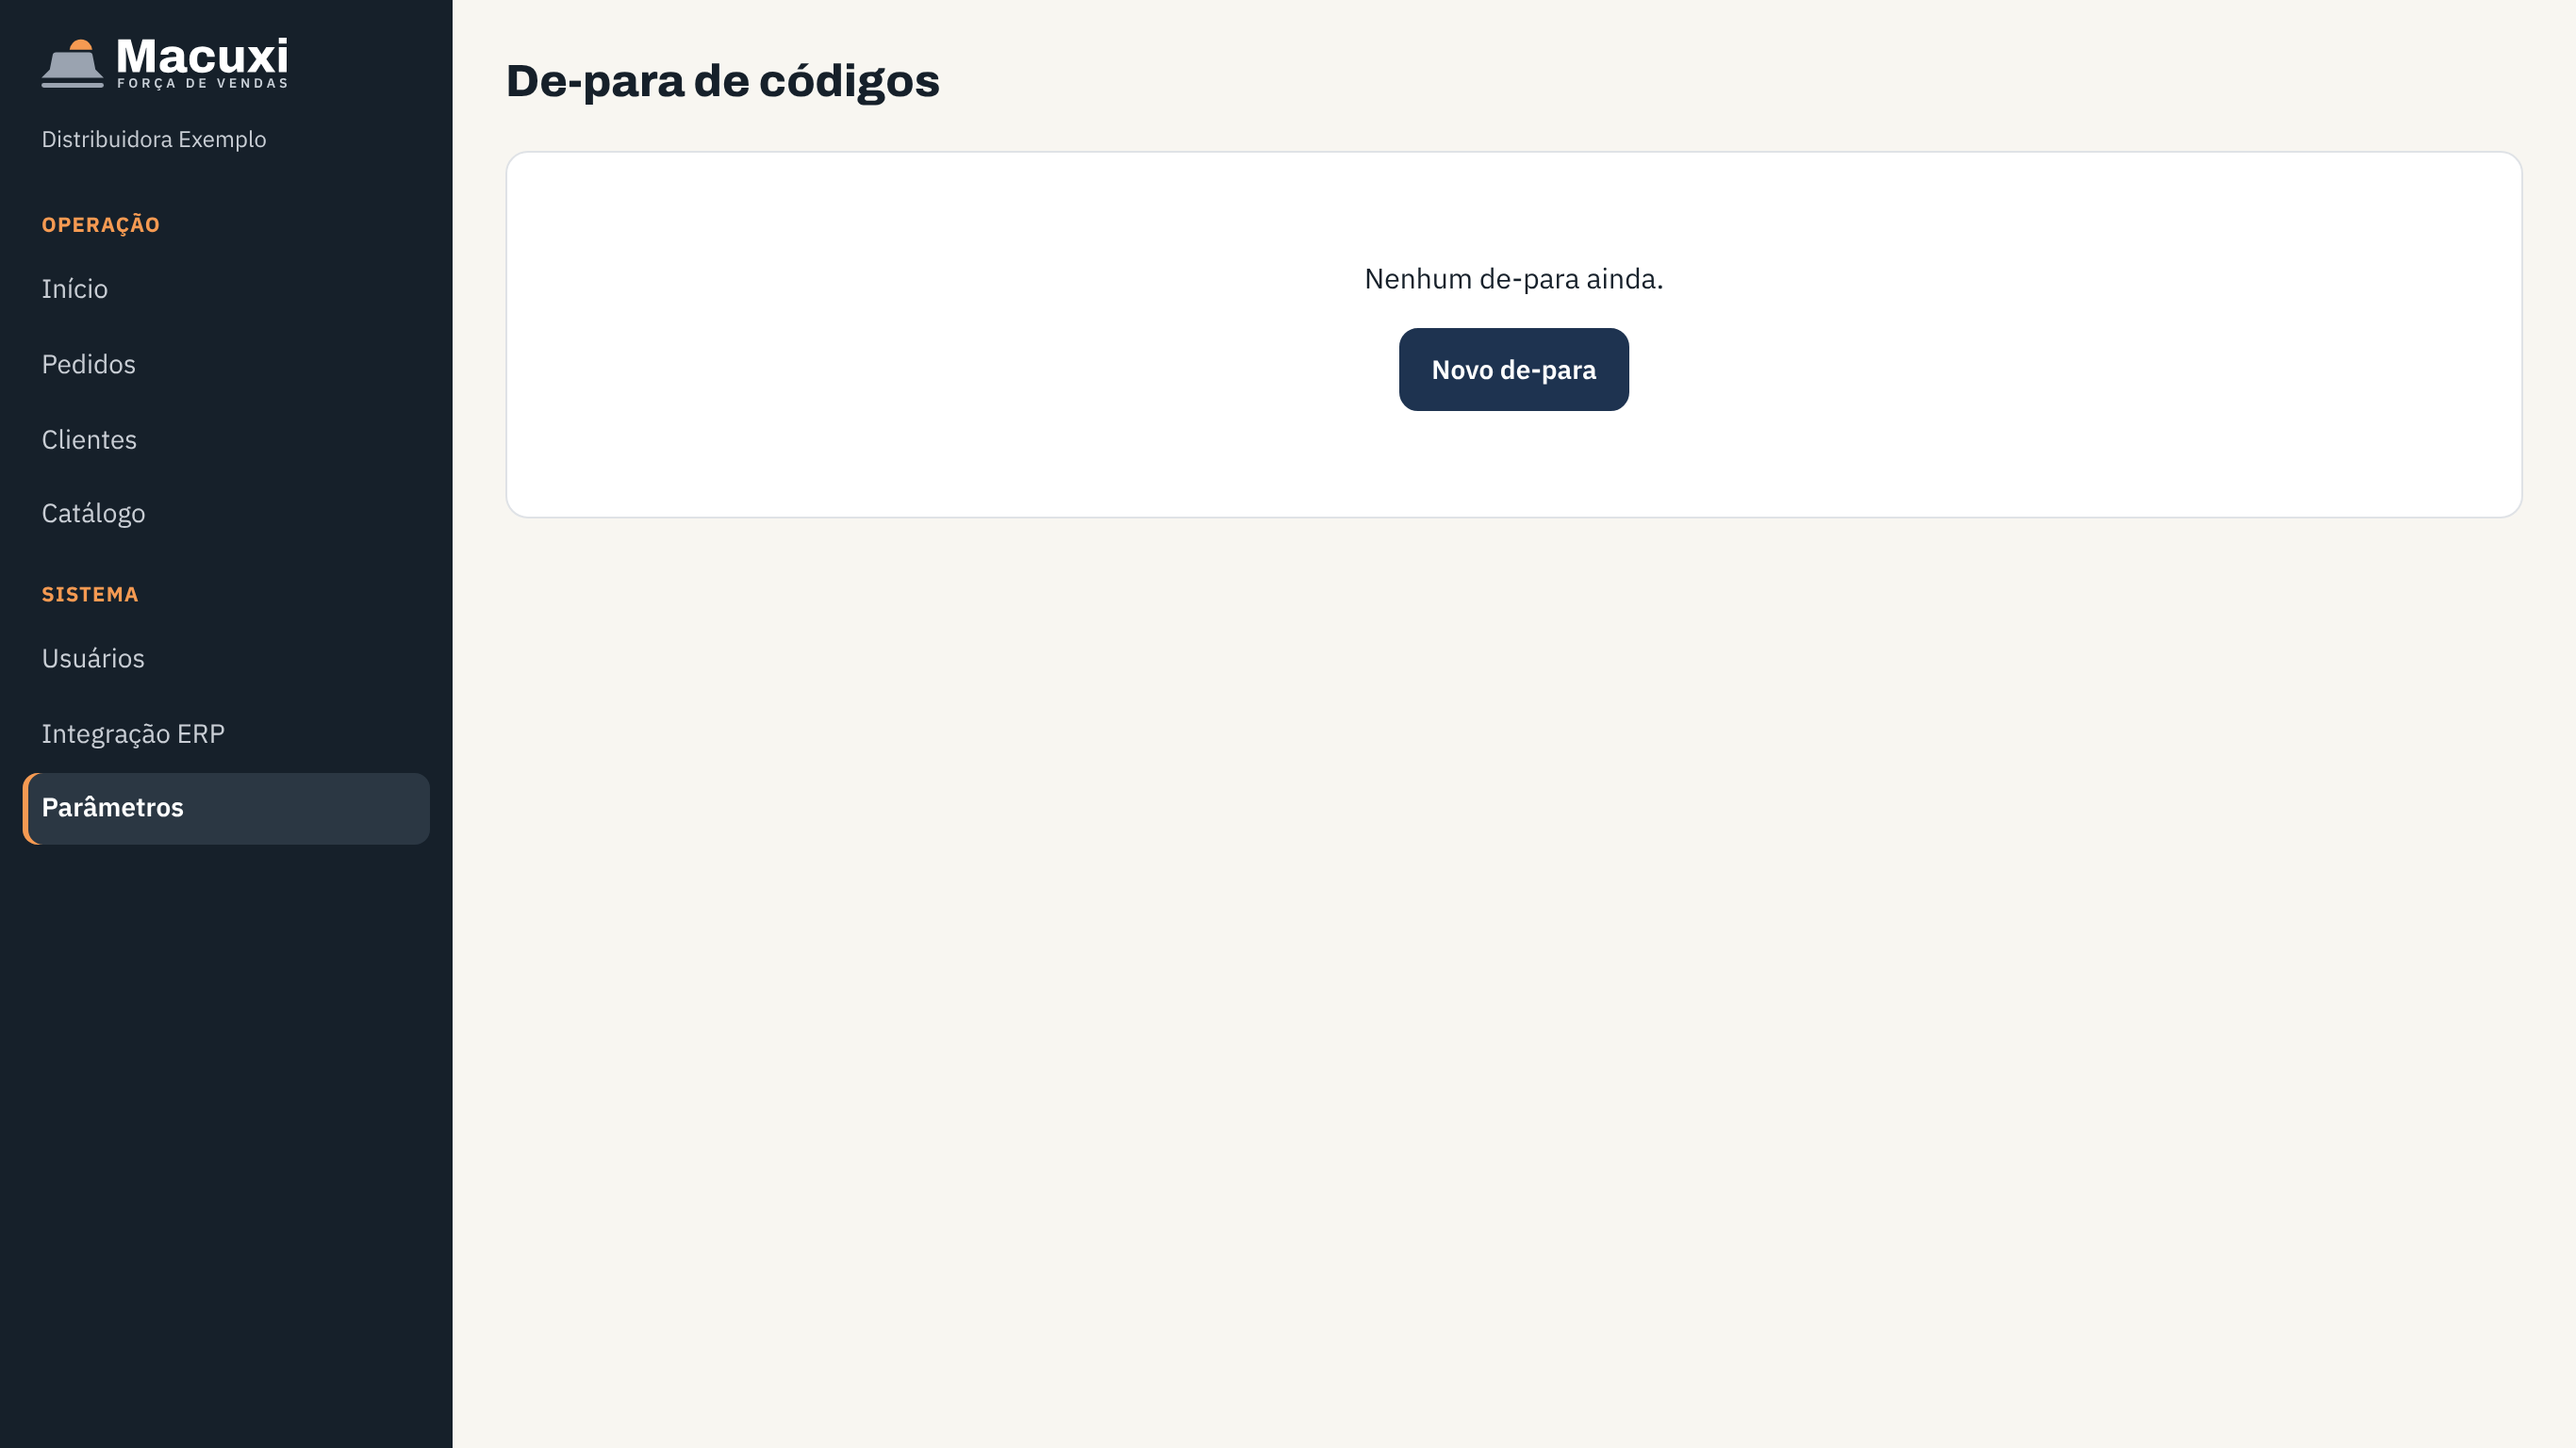
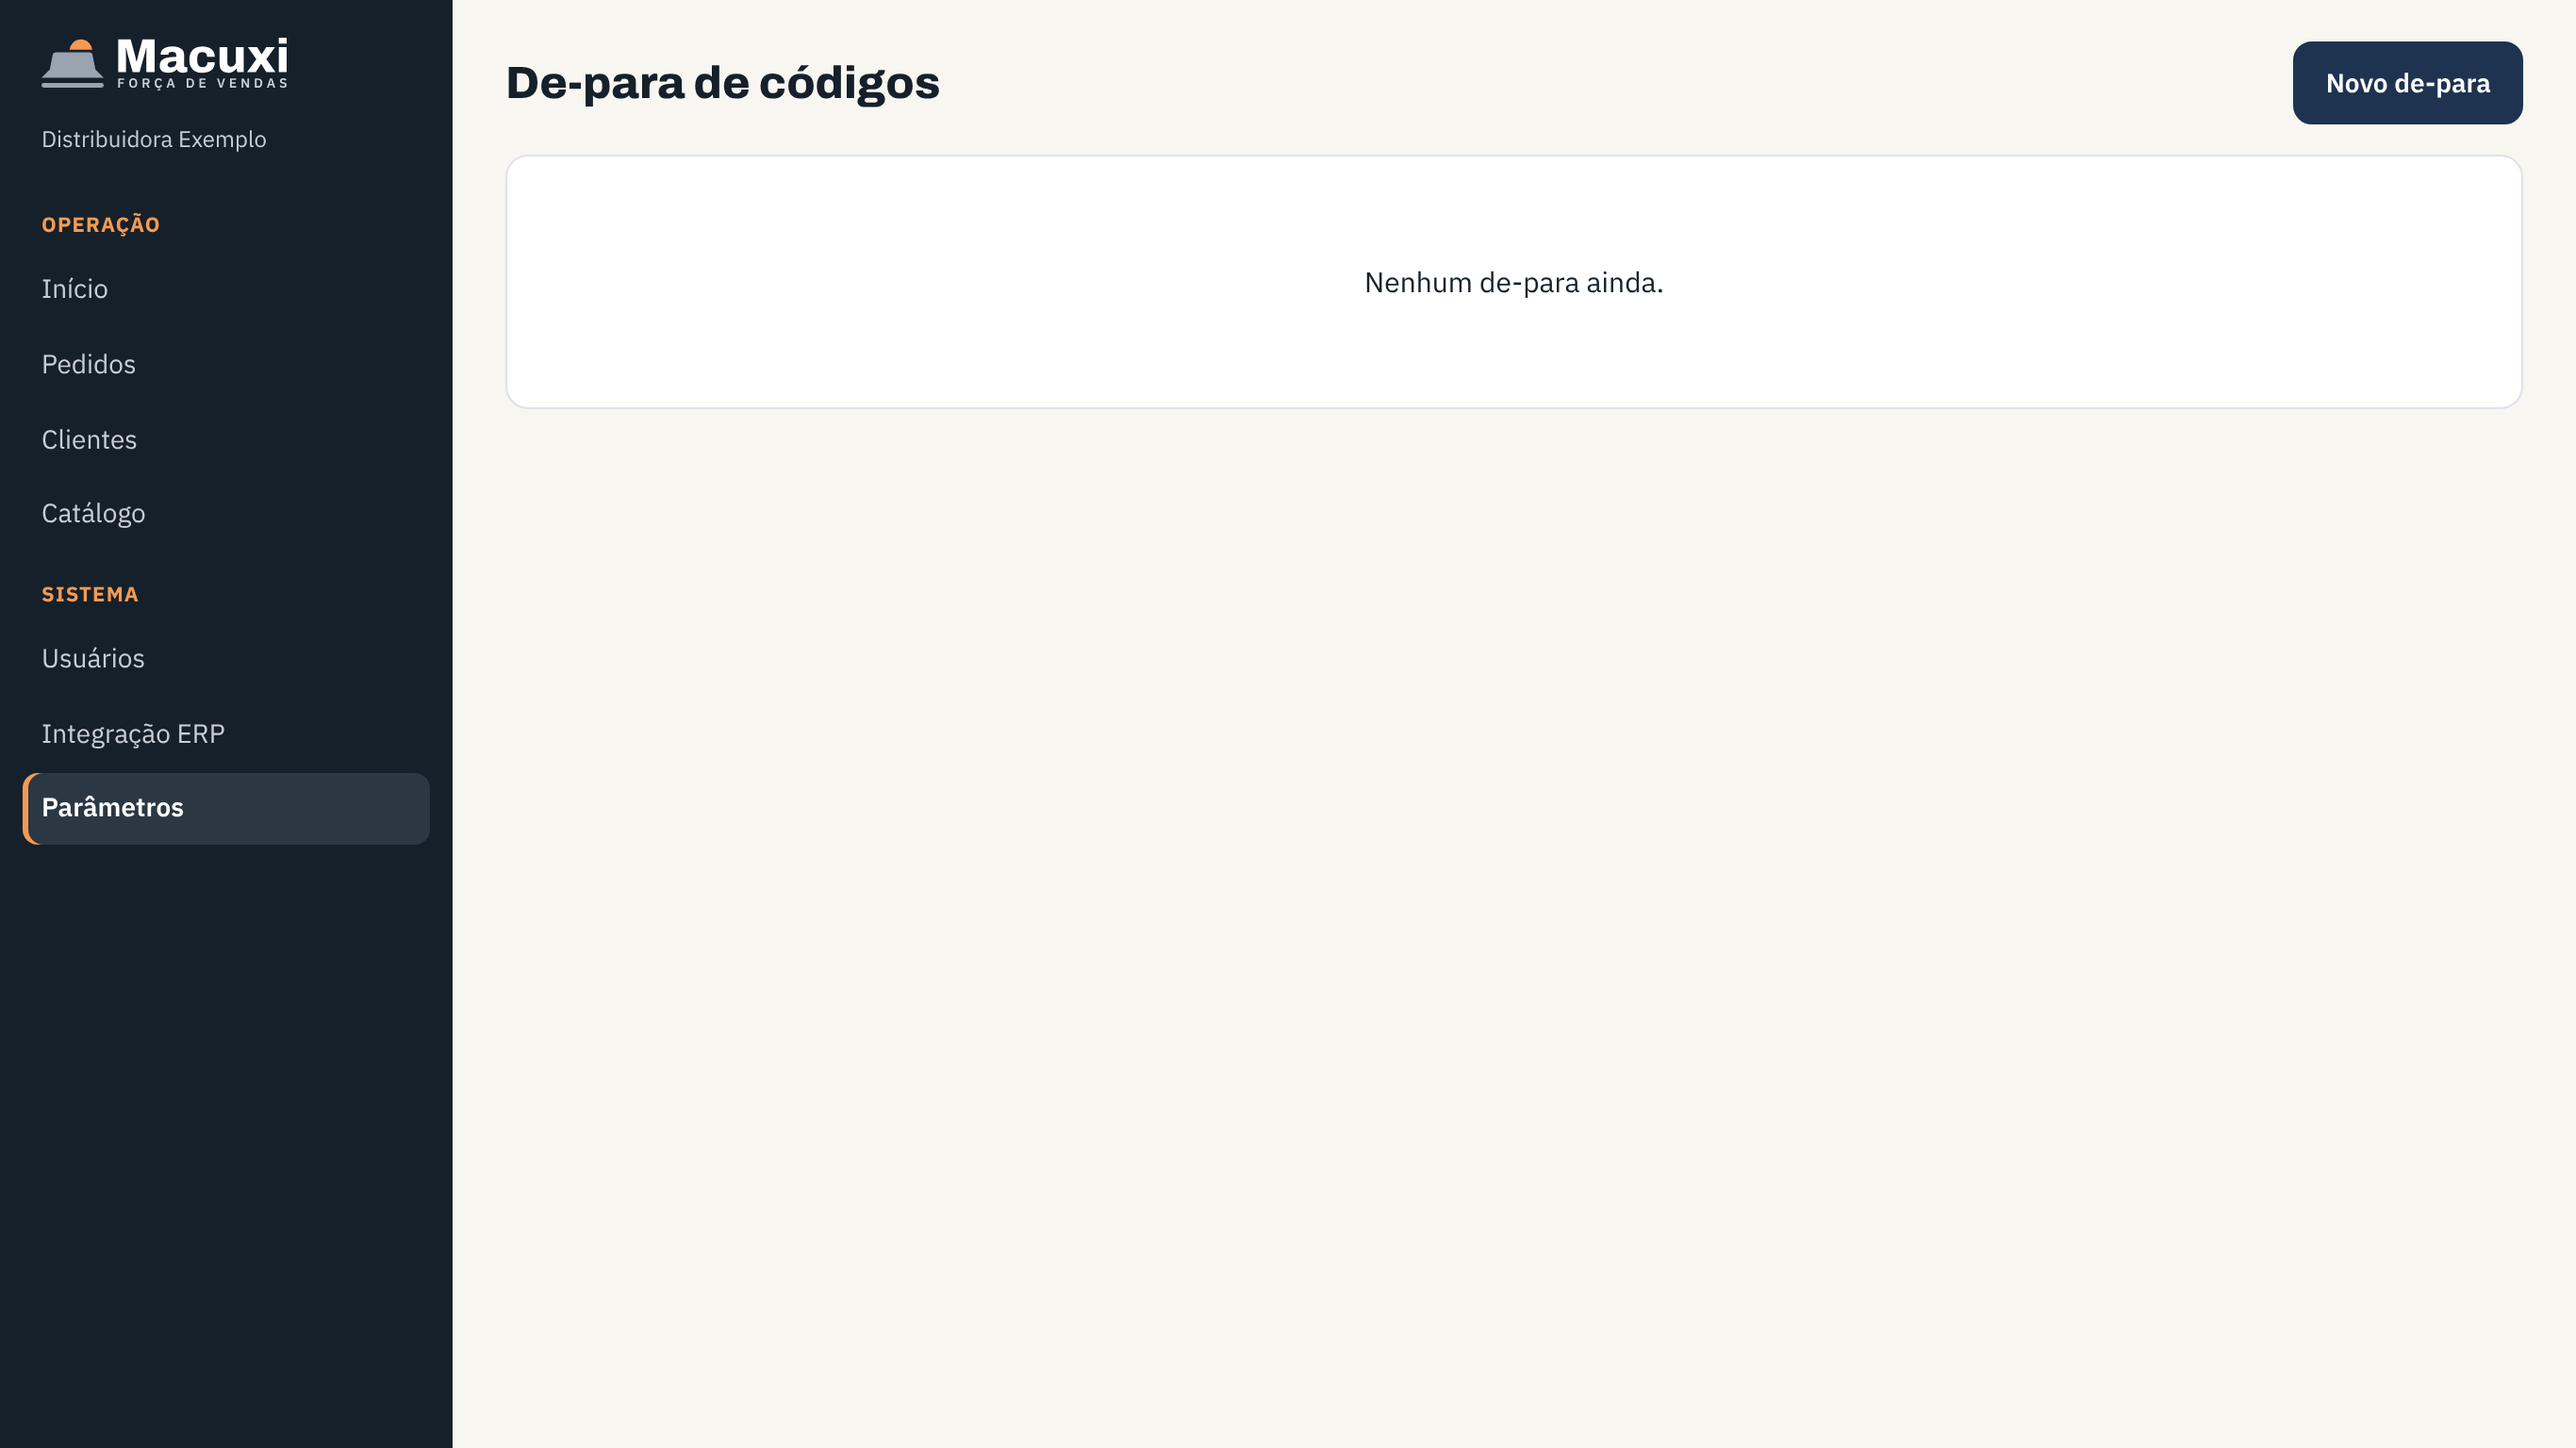
docs(design): de-para vazio só com o botão do cabeçalho e decisões da marca MC-0061..0063 (RD-0967, T-0173)
Agente: designer-ux

Claude-Session: https://claude.ai/code/session_0157qAhnwWPonmgtGXBmVAQs

Changed region(s): [[0.5289, 0.1875, 0.6534, 0.2812], [0.8712, 0.0312, 0.9956, 0.0938], [0.2178, 0.0312, 0.3422, 0.0625]]

diff --git a/docs/design/integracao-simples/simulacoes/de-para-vazio.html b/docs/design/integracao-simples/simulacoes/de-para-vazio.html
@@ -14,10 +14,9 @@
   <div class="i">Usuários</div><div class="i">Integração ERP</div><div class="i on">Parâmetros</div>
 </nav>
 <main>
-  <div class="ph"><h1>De-para de códigos</h1></div>
+  <div class="ph"><h1>De-para de códigos</h1><span class="btn pri">Novo de-para</span></div>
   <div class="vazio">
     <div class="s" style="color:var(--ink);font-size:15px">Nenhum de-para ainda.</div>
-    <span class="btn pri">Novo de-para</span>
   </div>
 </main>
 </body>

diff --git a/docs/design/integracao-simples/README.md b/docs/design/integracao-simples/README.md
@@ -96,8 +96,13 @@ Página **De-para de códigos** (rota em Parâmetros → Integração), campos r
    da entidade; mostra `código · nome`; marca **{n} retidos** e deixa desligado o que já tem de-para, com "já tem: ERP {código}") ·
    **No ERP** (texto, até 60) · **Descrição (opcional)**. Na lista, o único aviso é o selo **{n} retidos**. Rodapé: **Cancelar** e **Salvar de-para**. Novo nasce ativo (o "Ativo" sai do formulário).
    Aviso ao salvar: **De-para salvo.** ou **De-para salvo. {n} pedidos seguiram para o ERP.**
-6. Vazio (`EstadoVazio`): **Nenhum de-para ainda.** + **Novo de-para**.
+6. Vazio (`EstadoVazio`): só **Nenhum de-para ainda.**, sem botão; o **Novo de-para** fica só no `PageHeader` (item 1: um só principal).
+   Sem itens, o `FilterBar` (Entidade e Buscar) some.
 Premissa: a lista de códigos do Macuxi por entidade vem de uma consulta do modulo-integracao (a pedir).
+Decisões da marca (valem para a tabela de lotes e para o de-para):
+- MC-0061: tabelas e o vazio ficam dentro de um cartão branco (`--surface`) com borda contínua (`--line`), raio 12 px.
+- MC-0062: códigos (Macuxi, ERP e lote) em IBM Plex Mono; **{n} retidos** é um selo `Badge` de aviso (`warning`).
+- MC-0063: o nome da entidade na tabela vai em peso 400 (texto comum, sem negrito).
 
 ## 10. Simulações (1366×768, PNG 2x)
 `simulacoes/`: `lotes.png` (menu ⋯ aberto num lote em andamento: só Cancelar), `lotes-popup.png`, `de-para.png` (menu ⋯ de um inativo),
